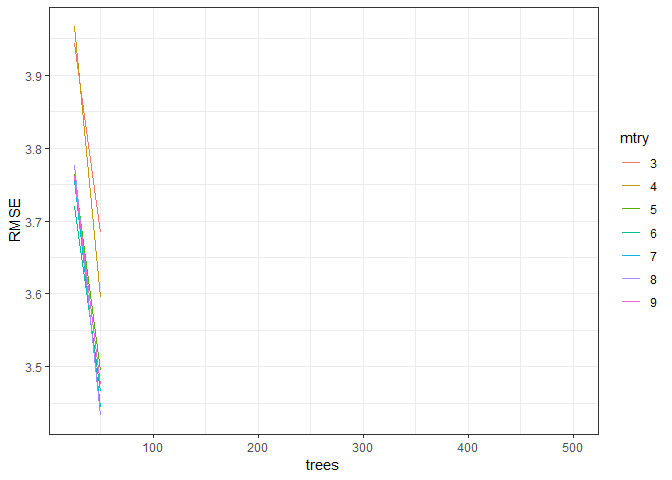
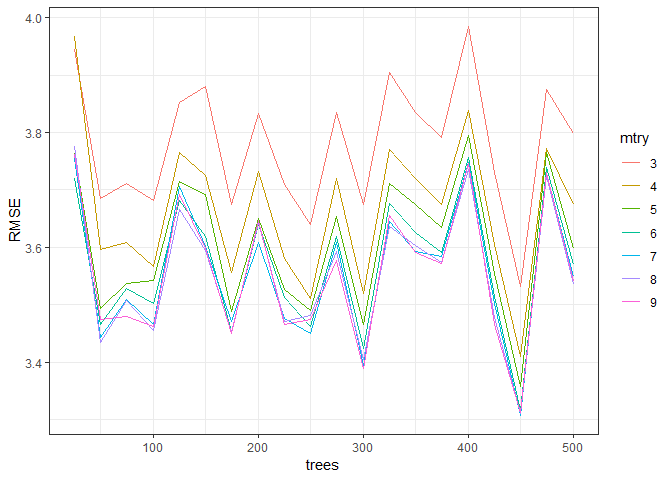
commit 3.6

diff --git a/homework-4.md b/homework-4.md
@@ -1,7 +1,7 @@
 Homework 4: Bags, Forests, Boosts, oh my
 ================
 Alex Boyce
-3/9/2019
+3/6/2019
 
 Problem 1
 ---------
@@ -24,7 +24,7 @@ results <- tibble(trees = rep(seq(25,500,by=25), each=7),
                   RMSE = rep(NA, length(trees)))
 
 set.seed(1)
-for (i in seq(25, 50, by=25)){
+for (i in seq(25, 500, by=25)){
   rf_results <- train(medv ~ ., 
                       data = training,
                       method = "rf",
@@ -40,18 +40,19 @@ p <- ggplot(data = results, aes(x = trees, y = RMSE, group=mtry, col=as.factor(m
 p + geom_line() + labs(color = 'mtry')
 ```
 
-    ## Warning: Removed 126 rows containing missing values (geom_path).
-
 ![](homework-4_files/figure-markdown_github/unnamed-chunk-1-1.png)
 
-RMSE fluctuates a bit based on the number of trees - 50 looks like a good compromise between time to run and low error. In terms of mtry, RMSE improvement appears to stop at around 5 so that seems like a good option.
+RMSE fluctuates inconsistently based on the number of trees - 50 looks like a good compromise between time to run and low error. In terms of mtry, RMSE improvement appears to stop at around 5 so that seems like a good option.
 
 Problem 2
 ---------
 
 Problem 8 from Chapter 8 in the text. Set your seed with 9823 and split into train/test using 50% of your data in each split. In addition to parts (a) - (e), do the following:
 
-Part a - splitting the data
+Answer 2
+--------
+
+#### Part a - splitting the data
 
 ``` r
 df <- tbl_df(Carseats)
@@ -62,7 +63,7 @@ training <- df[inTraining, ]
 testing  <- df[-inTraining, ]
 ```
 
-Part b - regression tree
+#### Part b - regression tree
 
 ``` r
 tree_carseats <- rpart(Sales ~ . , training)
@@ -78,7 +79,7 @@ mean((test_pred - testing$Sales)^2)
 
     ## [1] 4.484515
 
-Part c - Tree cross-validation for tree depth
+#### Part c - Tree cross-validation for tree depth
 
 ``` r
 set.seed(9823)
@@ -98,46 +99,24 @@ plot(cv_carseats_tree)
 
 ![](homework-4_files/figure-markdown_github/unnamed-chunk-4-1.png)
 
-``` r
-cv_carseats_tree
-```
-
-    ## CART 
-    ## 
-    ## 201 samples
-    ##  10 predictor
-    ## 
-    ## No pre-processing
-    ## Resampling: Cross-Validated (10 fold, repeated 10 times) 
-    ## Summary of sample sizes: 180, 181, 181, 181, 181, 181, ... 
-    ## Resampling results across tuning parameters:
-    ## 
-    ##   maxdepth  RMSE      Rsquared   MAE     
-    ##    1        2.386609  0.2502462  2.002081
-    ##    2        2.339570  0.2848321  1.913478
-    ##    3        2.205471  0.3687289  1.801573
-    ##    4        2.253889  0.3529630  1.835435
-    ##    5        2.293972  0.3409969  1.854148
-    ##    6        2.318822  0.3369173  1.879146
-    ##    7        2.319414  0.3442876  1.872713
-    ##    8        2.310316  0.3505416  1.864051
-    ##    9        2.305573  0.3579987  1.856158
-    ##   10        2.286577  0.3770154  1.822844
-    ## 
-    ## RMSE was used to select the optimal model using the smallest value.
-    ## The final value used for the model was maxdepth = 3.
+Maxdepth of 3 gives the lowest RMSE - will re-fit using that
 
 ``` r
 set.seed(9823)
-cv_carseats_tree3 <- train(Sales ~ ., training, method = "rpart2", maxdepth = 3)
+cv_carseats_tree3 <- rpart(Sales ~ ., training, maxdepth = 3)
+prp(cv_carseats_tree3)
+```
 
+![](homework-4_files/figure-markdown_github/unnamed-chunk-5-1.png)
+
+``` r
 test_pred <- predict(cv_carseats_tree3, newdata = testing)
 mean((test_pred - testing$Sales)^2)
 ```
 
     ## [1] 4.933184
 
-Part d - Bagging
+#### Part d - Bagging
 
 ``` r
 set.seed(9823)
@@ -152,26 +131,23 @@ mean((test_pred - testing$Sales)^2)
 
     ## [1] 3.01177
 
+Plotting variable importance
+
 ``` r
 imp <- varImp(carseats_bag)
 rn <- row.names(imp)
-imp_df <- data_frame(variable = rn, importance = imp$Overall) %>%
+imp_df <- tibble(variable = rn, importance = imp$Overall) %>%
   arrange(desc(-importance)) %>%
   mutate(variable = factor(variable, variable))
-```
 
-    ## Warning: `data_frame()` is deprecated, use `tibble()`.
-    ## This warning is displayed once per session.
-
-``` r
 p <- ggplot(data = imp_df, aes(variable, importance))
 p + geom_col(fill = "#6e0000") +
   coord_flip()
 ```
 
-![](homework-4_files/figure-markdown_github/unnamed-chunk-5-1.png)
+![](homework-4_files/figure-markdown_github/unnamed-chunk-7-1.png) Shelf location and price are the two most important variables here
 
-Part e - Random Forest
+#### Part e - Random Forest
 
 ``` r
 set.seed(9823)
@@ -184,22 +160,26 @@ p + geom_point() +
   geom_line()
 ```
 
-![](homework-4_files/figure-markdown_github/unnamed-chunk-6-1.png)
+![](homework-4_files/figure-markdown_github/unnamed-chunk-8-1.png)
+
+mtry of 5-8 results in similiar RMSE - will use 5 for simplicity
 
 ``` r
 set.seed(9823)
-carseats_rf5 <- randomForest(Sales ~ ., data = training, mtry = 5)
+carseats_rf5 <- randomForest(Sales ~ ., data = training, mtry = 5, importance = TRUE)
 
 test_pred <- predict(carseats_rf5, newdata = testing)
 mean((test_pred - testing$Sales)^2)
 ```
 
-    ## [1] 3.192504
+    ## [1] 3.12534
+
+Variable Importance
 
 ``` r
-imp <- varImp(carseats_rf)$importance
+imp <- varImp(carseats_rf5)
 rn <- row.names(imp)
-imp_df <- data_frame(variable = rn, importance = imp$Overall) %>%
+imp_df <- tibble(variable = rn, importance = imp$Overall) %>%
   arrange(desc(-importance)) %>%
   mutate(variable = factor(variable, variable))
 
@@ -208,9 +188,9 @@ p + geom_col(fill = "#6e0000") +
   coord_flip()
 ```
 
-![](homework-4_files/figure-markdown_github/unnamed-chunk-7-1.png)
+![](homework-4_files/figure-markdown_github/unnamed-chunk-10-1.png) Again, shelf location and price are most important
 
-1.  Fit a gradient-boosted tree to the training data and report the estimated test MSE.
+#### 1. Fit a gradient-boosted tree to the training data and report the estimated test MSE.
 
 ``` r
 set.seed(9823)
@@ -239,7 +219,7 @@ mean((test_pred - testing$Sales)^2)
 
     ## [1] 1.816239
 
-1.  Fit a multiple regression model to the training data and report the estimated test MSE
+#### 2. Fit a multiple regression model to the training data and report the estimated test MSE
 
 ``` r
 carseats_lm <- lm(Sales ~ .,data = training)
@@ -249,6 +229,6 @@ mean((test_pred - testing$Sales)^2)
 
     ## [1] 1.012709
 
-1.  Summarize your results.
+#### 3. Summarize your results.
 
 Tree error MSE steadily improved throughout the problem, with the original tree & cross-validation of depth around 4.5-5. Bagging and random forest dropped MSE to around 3, then boosting further dropped to 1.8. However, a simple multiple regression with all variables was still best at 1.01 and is probably the easiest to explain.
